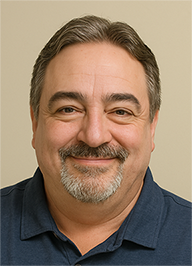
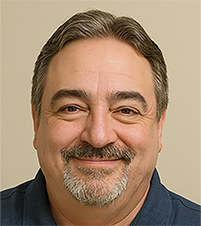
Applied multi-user session support, stopped session hijacking, fixed forced user logout through Monitor page, to kill all active chat DOCK sessions

diff --git a/server/accounts/accounts.controller.js b/server/accounts/accounts.controller.js
@@ -11,6 +11,7 @@ const db = require('../_helpers/db');
 const fs = require('fs').promises;
 const path = require('path');
 const Account = require('./account.model');
+const websocketService = require('../services/websocket.service');
 
 console.log('Setting up accounts routes...');
 
@@ -205,7 +206,7 @@ function setTokenCookie(res, token) {
 
 function handleAuthenticate(req, res, next) {
     const { email, password } = req.body;
-    const ipAddress = req.ip;
+    const ipAddress = req.headers['x-forwarded-for'] || req.connection.remoteAddress || req.ip;
     accountService.authenticate({ email, password, ipAddress })
         .then(({ jwtToken, refreshToken, ...account }) => {
             setTokenCookie(res, refreshToken);
@@ -219,7 +220,7 @@ function handleAuthenticate(req, res, next) {
 
 function refreshToken(req, res, next) {
     const token = req.cookies.refreshToken;
-    const ipAddress = req.ip;
+    const ipAddress = req.headers['x-forwarded-for'] || req.connection.remoteAddress || req.ip;
     accountService.refreshToken({ token, ipAddress })
         .then(({ jwtToken, refreshToken, ...account }) => {
             setTokenCookie(res, refreshToken);
@@ -237,7 +238,7 @@ function revokeTokenSchema(req, res, next) {
 
 function revokeToken(req, res, next) {
     const token = req.body.token;
-    const ipAddress = req.ip;
+    const ipAddress = req.headers['x-forwarded-for'] || req.connection.remoteAddress || req.ip;
 
     if (!token) return res.status(400).json({ message: 'Token is required' });
 
@@ -549,6 +550,19 @@ async function forceLogoutHandler(req, res, next) {
 
         if (!result) {
             return res.status(404).json({ message: 'Session not found' });
+        }
+
+        // Remove the session from WebSocketService and broadcast updated online users
+        if (websocketService && websocketService.connections && websocketService.connections.has(sessionId)) {
+            const connection = websocketService.connections.get(sessionId);
+            if (connection && connection.userId) {
+                websocketService.handleDisconnection(sessionId, connection.userId);
+            } else {
+                websocketService.connections.delete(sessionId);
+                websocketService.broadcastOnlineUsers();
+            }
+        } else {
+            websocketService.broadcastOnlineUsers();
         }
 
         res.json({ message: 'Session revoked successfully' });

diff --git a/server/accounts/account.service.js b/server/accounts/account.service.js
@@ -64,18 +64,18 @@ async function authenticate({ email, password, ipAddress }) {
         }
 
         // Revoke any existing active sessions for this user
-        await db.RefreshToken.updateMany(
-            { 
-                account: account.id,
-                revoked: null,
-                expires: { $gt: new Date() }
-            },
-            {
-                revoked: new Date(),
-                revokedByIp: ipAddress,
-                revokedReason: 'New login detected'
-            }
-        );
+        // await db.RefreshToken.updateMany(
+        //     { 
+        //         account: account.id,
+        //         revoked: null,
+        //         expires: { $gt: new Date() }
+        //     },
+        //     {
+        //         revoked: new Date(),
+        //         revokedByIp: ipAddress,
+        //         revokedReason: 'New login detected'
+        //     }
+        // );
 
         // authentication successful so generate jwt and refresh tokens
         console.log('Authentication successful, generating tokens');

diff --git a/server/server.js b/server/server.js
@@ -170,4 +170,6 @@ function startServer() {
 // Initial connection
 connectWithRetry();
 
+app.set('trust proxy', true); // Trust proxy for correct client IP
+
 

diff --git a/src/app/profile-templates/components/profiles/new-standard-profile/new-standard-profile.component.scss b/src/app/profile-templates/components/profiles/new-standard-profile/new-standard-profile.component.scss
@@ -307,7 +307,7 @@
 
 .profile-info-block p {
     position: relative;
-    top: -20px;
+    // top: -20px;
 }
 
 // Empty profile notice styling

diff --git a/src/app/profile-templates/components/chat/chat-dock/chat-dock.component.css b/src/app/profile-templates/components/chat/chat-dock/chat-dock.component.css
@@ -13,7 +13,7 @@
 }
 
 .chat-dock.open {
-  right: 35px;
+  right: 4px;
 }
 
 .chat-dock-header {
